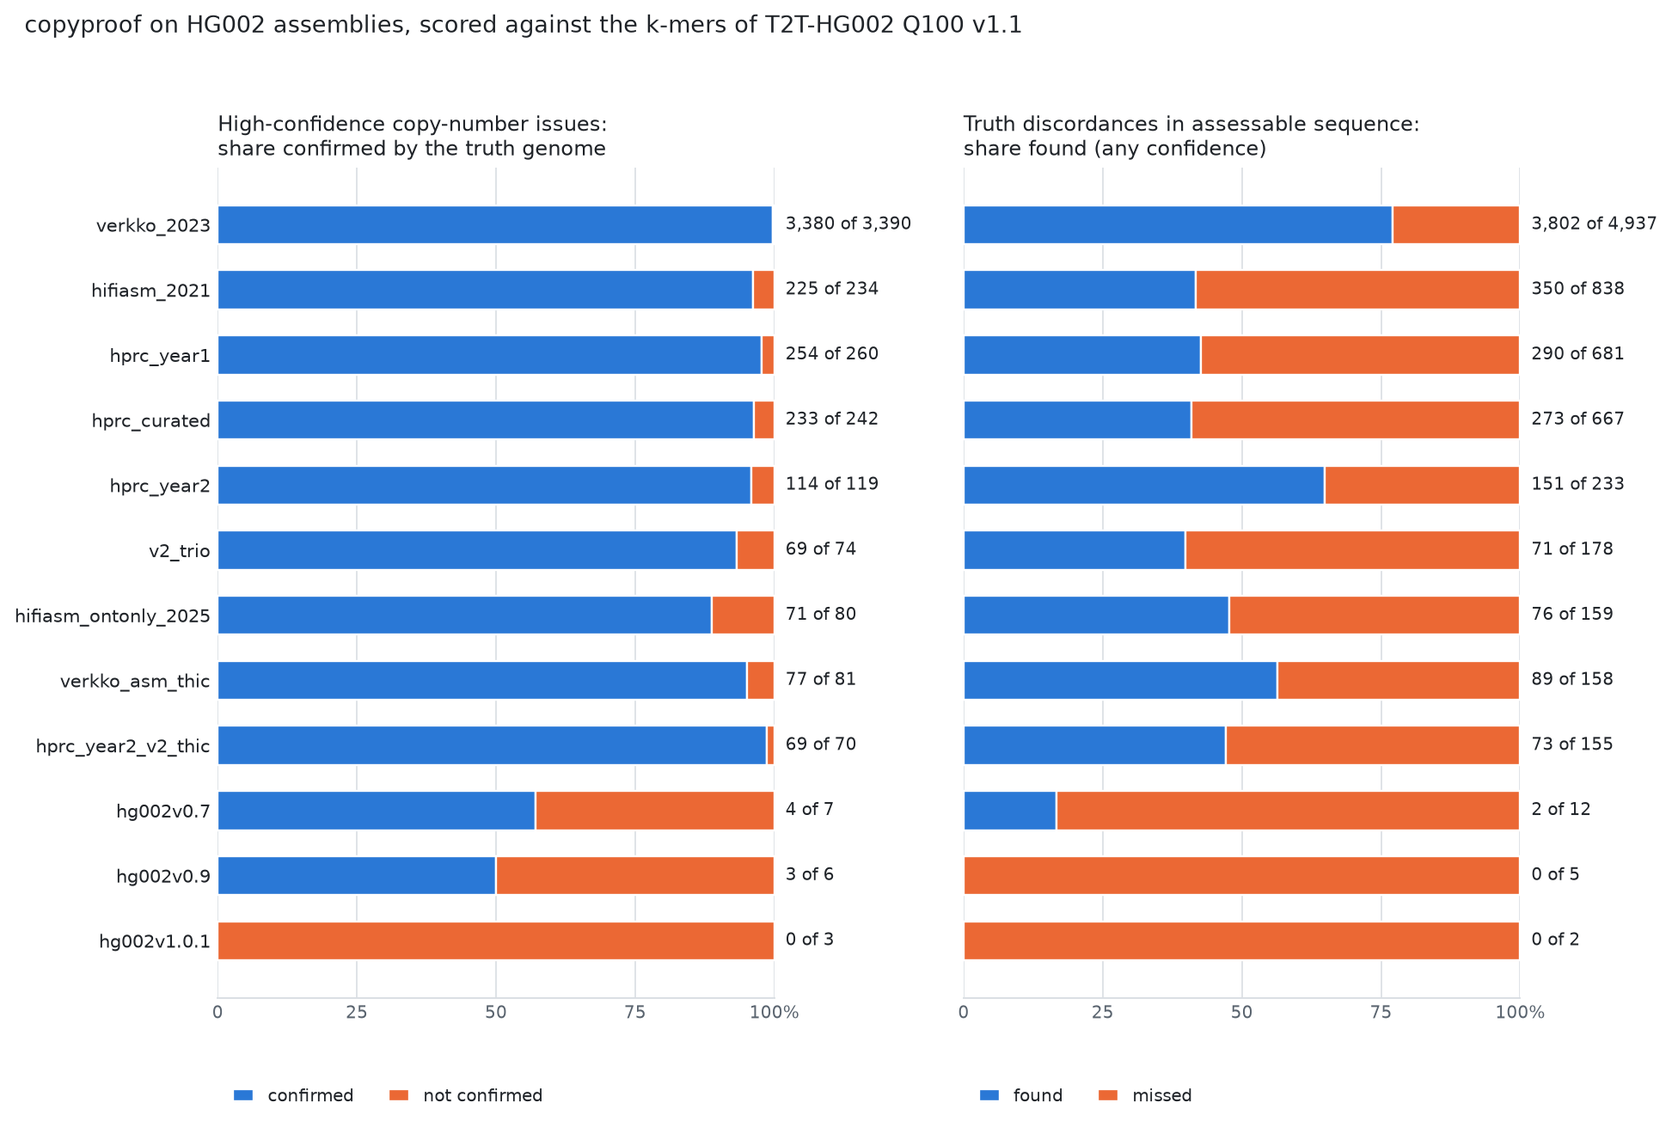
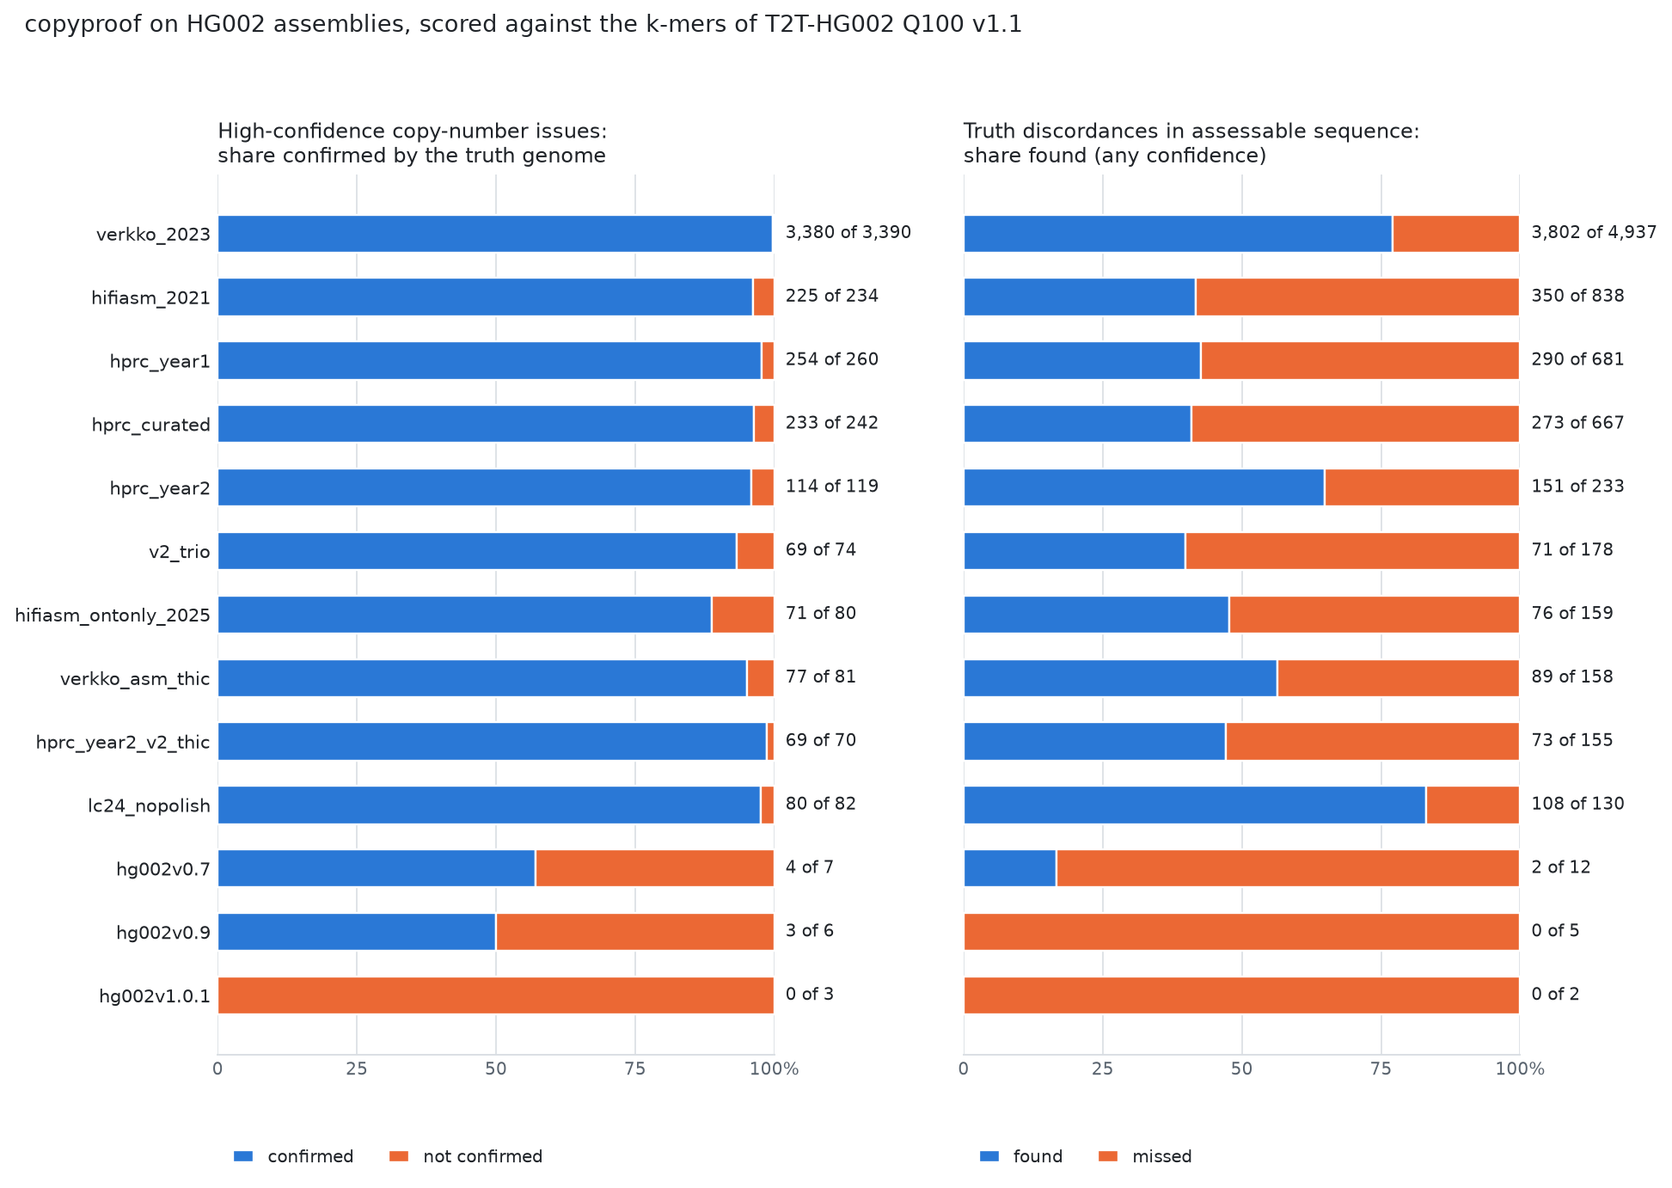
Rung 4: all thirteen downloaded assemblies scored
The last one (lc24_nopolish) finished: 4,579 of 4,648 high-confidence copy-number issues are
confirmed by the truth genome (1,199 of 1,258 without verkko_2023), with 1 to 10 unconfirmed
per assembly. Tables, figure, record, README and notebook entry o carry the final numbers; the
"not yet scored" section is gone.

diff --git a/copyproof/experiments/2026-11-13_hg002_assemblies/README.md b/copyproof/experiments/2026-11-13_hg002_assemblies/README.md
@@ -4,13 +4,14 @@
 the real discordances does it find, and what do short-read k-mers say about consensus quality
 (GUIDE §8 rung 4; decisions D4, D6)?
 
-**Inputs.** Twelve HG002 assemblies of different years, methods and data, three of them earlier
+**Inputs.** Thirteen HG002 assemblies of different years, methods and data, three of them earlier
 drafts of the truth genome itself (`assemblies.tsv`; all from the public Q100 benchmark folder);
 HG002's NovaSeq PCR-free reads (36x), counted once; the k-mers of T2T-HG002 Q100 v1.1, counted
 exactly. The read k-mer database built for rung 3 serves every assembly. Two of the assemblies
 (`verkko_2023`, `hprc_curated`) carry no haplotype in their sequence names and are run as one
-group. The benchmark folder lists one more name, `hifi_q28_trio_hic`; its file is the same as
-that of `verkko_asm_thic`, byte for byte, and it is counted once.
+group. These are all the assemblies that were downloaded. The list holds one more name,
+`hifi_q28_trio_hic`, whose file is the same as that of `verkko_asm_thic`, byte for byte; it is
+counted once.
 
 **Truth without alignment.** Each assembly is scanned with the truth genome's k-mer counts as an
 extra read set, so every tracked k-mer of the assembly carries the copies the truth holds
@@ -35,6 +36,7 @@ stretch of a collapsed copy is a true discordance too.
 | `hprc_curated` | HPRC curated HG002 (accession names; one group) | 6.02, 869 | 59.5 | 273 of 667 (41%) | 233 of 242 (96%) | 60 of 179 (34%) | 52.6 / 49.82 |
 | `hifiasm_2021` | hifiasm 0.12, HiFi only (2021) | 5.97, 1,030 | 53.4 | 350 of 838 (42%) | 225 of 234 (96%) | 85 of 135 (63%) | 50.8 / 48.43 |
 | `verkko_asm_thic` | Verkko, trio + Hi-C | 5.97, 90 | 23.6 | 89 of 158 (56%) | 77 of 81 (95%) | 5 of 52 (10%) | 55.8 / 50.07 |
+| `lc24_nopolish` | ONT-only (LC24), unpolished | 6.06, 891 | 20.6 | 108 of 130 (83%) | 80 of 82 (98%) | 21 of 69 (30%) | 47.0 / 45.23 |
 | `hifiasm_ontonly_2025` | hifiasm, ONT only (2025) | 5.98, 163 | 18.8 | 76 of 159 (48%) | 71 of 80 (89%) | 4 of 57 (7%) | 45.7 / 43.89 |
 | `hprc_year2_v2_thic` | HPRC year-2 v2, trio + Hi-C | 5.98, 209 | 17.9 | 73 of 155 (47%) | 69 of 70 (99%) | 10 of 45 (22%) | 52.7 / 48.79 |
 | `hprc_year2` | HPRC year-2 pipeline, hifiasm trio, polished | 5.98, 302 | 16.5 | 151 of 233 (65%) | 114 of 119 (96%) | 31 of 74 (42%) | 51.4 / 49.21 |
@@ -43,34 +45,34 @@ stretch of a collapsed copy is a true discordance too.
 | `hg002v0.9` | Q100 draft v0.9 | 6.00, 48 | 2.1 | 0 of 5 (0%) | 3 of 6 (50%) | 0 of 32 (0%) | 58.7 / 51.78 |
 | `hg002v1.0.1` | Q100 v1.0.1 | 6.00, 48 | 0.2 | 0 of 2 (0%) | 0 of 3 (0%) | 0 of 43 (0%) | 59.3 / 51.95 |
 
-Summed over the 12 assemblies, by size of the segment (`scoreboard.by_size.tsv`):
+Summed over the 13 assemblies, by size of the segment (`scoreboard.by_size.tsv`):
 
 | Direction | Size | Assessable discordances | Found | Issues | Confirmed | High-confidence issues | Confirmed |
 |---|---|---|---|---|---|---|---|
-| The truth holds more (collapse) | under 5 kb | 435 | 39 (9%) | 26 | 19 (73%) | 0 |  |
-|  | 5 to 20 kb | 534 | 130 (24%) | 153 | 139 (91%) | 138 | 127 (92%) |
-|  | 20 to 100 kb | 422 | 213 (50%) | 225 | 210 (93%) | 213 | 203 (95%) |
-|  | over 100 kb | 158 | 85 (54%) | 148 | 134 (91%) | 143 | 131 (92%) |
-| The truth holds fewer (surplus copy) | under 5 kb | 363 | 65 (18%) | 656 | 26 (4%) | 4 | 4 (100%) |
-|  | 5 to 20 kb | 3,505 | 2,771 (79%) | 2,544 | 2,517 (99%) | 2,132 | 2,120 (99%) |
-|  | 20 to 100 kb | 2,166 | 1,563 (72%) | 1,815 | 1,804 (99%) | 1,616 | 1,606 (99%) |
-|  | over 100 kb | 442 | 311 (70%) | 350 | 333 (95%) | 320 | 308 (96%) |
+| The truth holds more (collapse) | under 5 kb | 438 | 41 (9%) | 26 | 19 (73%) | 0 |  |
+|  | 5 to 20 kb | 537 | 133 (25%) | 155 | 141 (91%) | 140 | 129 (92%) |
+|  | 20 to 100 kb | 431 | 215 (50%) | 229 | 214 (93%) | 217 | 207 (95%) |
+|  | over 100 kb | 158 | 85 (54%) | 151 | 136 (90%) | 146 | 133 (91%) |
+| The truth holds fewer (surplus copy) | under 5 kb | 367 | 65 (18%) | 702 | 26 (4%) | 4 | 4 (100%) |
+|  | 5 to 20 kb | 3,515 | 2,778 (79%) | 2,555 | 2,527 (99%) | 2,135 | 2,123 (99%) |
+|  | 20 to 100 kb | 2,213 | 1,605 (73%) | 1,856 | 1,844 (99%) | 1,643 | 1,633 (99%) |
+|  | over 100 kb | 496 | 363 (73%) | 394 | 376 (95%) | 363 | 350 (96%) |
 
 ## What was learned
 
-1. **High-confidence copy-number issues are real, down to a floor of a few per genome.** 4,499 of
-   4,566 are confirmed (99%); without the one assembly that contributes most of them, 1,119 of
-   1,176 (95%). Among the nine assemblies with 20 such issues or more, 89% to 100% each. The
-   ones not confirmed number 1 to 10 per assembly (67 in all, `unconfirmed_high.tsv`) whether
+1. **High-confidence copy-number issues are real, down to a floor of a few per genome.** 4,579 of
+   4,648 are confirmed (99%); without the one assembly that contributes most of them, 1,199 of
+   1,258 (95%). Among the ten assemblies with 20 such issues or more, 89% to 100% each. The
+   ones not confirmed number 1 to 10 per assembly (69 in all, `unconfirmed_high.tsv`) whether
    the confirmed ones number 0 or 3,380, so a share says little about an assembly with few
    errors. The three drafts of the truth genome show that floor alone: 3 unconfirmed issues
    each, against 4, 3 and 0 confirmed. Two of the three are the same in every draft: a pair of
    calls 57 to 72 kb into chromosome 1 on both haplotypes, where the reads hold four more
    copies than the genome. The truth genome's own run makes the same two calls (rung 3). Of
-   the 67, 43 lie where the truth shows no discordance at all and 21 where it shows one over
+   the 69, 44 lie where the truth shows no discordance at all and 22 where it shows one over
    20% to just under 50% of the issue.
-2. **Surplus copies are found better than collapses.** For surplus copies of 5 kb and more, 70% to
-   79% of the assessable discordances are found. For collapses it is 24% to 54%. A surplus copy
+2. **Surplus copies are found better than collapses.** For surplus copies of 5 kb and more, 73% to
+   79% of the assessable discordances are found. For collapses it is 25% to 54%. A surplus copy
    of sequence the assembly holds three times lowers the depth of its k-mers by a third; a
    collapse among six copies raises it by a sixth, which is the size of the regional wander of
    depth. Most missed collapses are of that kind: in duplicated sequence where the assembly holds
@@ -101,22 +103,22 @@ Summed over the 12 assemblies, by size of the segment (`scoreboard.by_size.tsv`)
    the truth genome itself: 1 to 3 kb where one haplotype's own k-mers have no short reads. Long
    reads showed that the sequence is real in 10 of those 13 (rung 3). Such calls are now of low
    confidence, and dropped when long reads carry the k-mers.
-6. **Depth anomalies are rightly left out.** The twelve runs hold 32,740 segments that fit a depth
-   factor or nothing regular. The truth confirms 1,302 (4%); without `verkko_2023`, 440 of 29,305
-   (2%). Ambiguous segments without support: 1,337, of which 171 confirmed (13%).
+6. **Depth anomalies are rightly left out.** The thirteen runs hold 35,372 segments that fit a
+   depth factor or nothing regular. The truth confirms 1,310 (4%); without `verkko_2023`, 448 of
+   31,937 (1%). Ambiguous segments without support: 1,465, of which 179 confirmed (12%).
 7. **One release holds 150 Mb more than a diploid genome.** `verkko_2023` (3,258 sequences) has
    149.6 Mb of sequence discordant with the truth, nearly all surplus copies; copyproof raises
    3,390 high-confidence issues there and 3,380 are confirmed. The other ordinary assemblies carry
    16 to 60 Mb of discordant sequence, the three drafts 2.2, 2.1 and 0.2 Mb.
 8. **Short-read k-mers understate consensus quality, by a floor.** The QV implied by assembly
    k-mers without any read is 2 to 7 units below the QV by the truth's k-mers, and the gap grows
-   with quality: 1.1 to 2.8 units in the seven assemblies below QV 52.7, 3.9 to 5.7 in the three
+   with quality: 1.1 to 2.8 units in the eight assemblies below QV 52.7, 3.9 to 5.7 in the three
    up to QV 57, and 6.9 and 7.3 in the two latest drafts. By read k-mers the three drafts reach
    51.2, 51.8 and 52.0 while the truth's k-mers give them 56.9, 58.7 and 59.3: 2.4 units between
    the drafts shrink to 0.8. The reason is the share of unread k-mers that are in fact correct
-   sequence. In the two weakest assemblies most unread k-mers are errors (`verkko_2023` 90%
-   wrong by the truth, `hifiasm_ontonly_2025` 86%); in the seven ordinary ones 40% to 62%; in
-   the drafts 24%, 13% and 9%. The reads find 32% to 92% of the k-mers that are wrong by the
+   sequence. In the three weakest assemblies most unread k-mers are errors (`verkko_2023` 90%
+   wrong by the truth, `hifiasm_ontonly_2025` 86%, `lc24_nopolish` 82%); in the seven ordinary
+   ones 40% to 62%; in the drafts 24%, 13% and 9%. The reads find 32% to 92% of the k-mers that are wrong by the
    truth.
 9. **Missing alleles are real; one-sided missing sequence mostly is not.** For `hprc_year2` the
    missing-sequence channel was run with the reads (`hprc_year2.missing_clusters.tsv`). A cluster
@@ -129,13 +131,6 @@ Summed over the 12 assemblies, by size of the segment (`scoreboard.by_size.tsv`)
    copy-number segments, the depth anomalies, the regions that cannot be assessed, the fitted
    model and the scored issues are identical file for file. It is the only repeat with
    unchanged code that was compared.
-
-## Not yet scored
-
-`lc24_nopolish` (ONT only, unpolished) is in `assemblies.tsv` and not in the tables: its run had
-not finished when this record was written. `scripts/run_hg002_assemblies.sh` runs whatever is
-not done, and `scripts/scoreboard.py` rebuilds the tables and every sum quoted above
-(`scoreboard.md`).
 
 ## Files
 

diff --git a/copyproof/experiments/2026-11-13_hg002_assemblies/scoreboard.md b/copyproof/experiments/2026-11-13_hg002_assemblies/scoreboard.md
@@ -5,6 +5,7 @@
 | `hprc_curated` | HPRC curated HG002 (accession names; one group) | 6.02, 869 | 59.5 | 273 of 667 (41%) | 233 of 242 (96%) | 60 of 179 (34%) | 52.6 / 49.82 |
 | `hifiasm_2021` | hifiasm 0.12, HiFi only (2021) | 5.97, 1,030 | 53.4 | 350 of 838 (42%) | 225 of 234 (96%) | 85 of 135 (63%) | 50.8 / 48.43 |
 | `verkko_asm_thic` | Verkko, trio + Hi-C | 5.97, 90 | 23.6 | 89 of 158 (56%) | 77 of 81 (95%) | 5 of 52 (10%) | 55.8 / 50.07 |
+| `lc24_nopolish` | ONT-only (LC24), unpolished | 6.06, 891 | 20.6 | 108 of 130 (83%) | 80 of 82 (98%) | 21 of 69 (30%) | 47.0 / 45.23 |
 | `hifiasm_ontonly_2025` | hifiasm, ONT only (2025) | 5.98, 163 | 18.8 | 76 of 159 (48%) | 71 of 80 (89%) | 4 of 57 (7%) | 45.7 / 43.89 |
 | `hprc_year2_v2_thic` | HPRC year-2 v2, trio + Hi-C | 5.98, 209 | 17.9 | 73 of 155 (47%) | 69 of 70 (99%) | 10 of 45 (22%) | 52.7 / 48.79 |
 | `hprc_year2` | HPRC year-2 pipeline, hifiasm trio, polished | 5.98, 302 | 16.5 | 151 of 233 (65%) | 114 of 119 (96%) | 31 of 74 (42%) | 51.4 / 49.21 |
@@ -13,29 +14,29 @@
 | `hg002v0.9` | Q100 draft v0.9 | 6.00, 48 | 2.1 | 0 of 5 (0%) | 3 of 6 (50%) | 0 of 32 (0%) | 58.7 / 51.78 |
 | `hg002v1.0.1` | Q100 v1.0.1 | 6.00, 48 | 0.2 | 0 of 2 (0%) | 0 of 3 (0%) | 0 of 43 (0%) | 59.3 / 51.95 |
 
-Summed over the 12 assemblies, by size of the segment:
+Summed over the 13 assemblies, by size of the segment:
 
 | Direction | Size | Assessable discordances | Found | Issues | Confirmed | High-confidence issues | Confirmed |
 |---|---|---|---|---|---|---|---|
-| The truth holds more (collapse) | under 5 kb | 435 | 39 (9%) | 26 | 19 (73%) | 0 |  |
-|  | 5 to 20 kb | 534 | 130 (24%) | 153 | 139 (91%) | 138 | 127 (92%) |
-|  | 20 to 100 kb | 422 | 213 (50%) | 225 | 210 (93%) | 213 | 203 (95%) |
-|  | over 100 kb | 158 | 85 (54%) | 148 | 134 (91%) | 143 | 131 (92%) |
-| The truth holds fewer (surplus copy) | under 5 kb | 363 | 65 (18%) | 656 | 26 (4%) | 4 | 4 (100%) |
-|  | 5 to 20 kb | 3,505 | 2,771 (79%) | 2,544 | 2,517 (99%) | 2,132 | 2,120 (99%) |
-|  | 20 to 100 kb | 2,166 | 1,563 (72%) | 1,815 | 1,804 (99%) | 1,616 | 1,606 (99%) |
-|  | over 100 kb | 442 | 311 (70%) | 350 | 333 (95%) | 320 | 308 (96%) |
+| The truth holds more (collapse) | under 5 kb | 438 | 41 (9%) | 26 | 19 (73%) | 0 |  |
+|  | 5 to 20 kb | 537 | 133 (25%) | 155 | 141 (91%) | 140 | 129 (92%) |
+|  | 20 to 100 kb | 431 | 215 (50%) | 229 | 214 (93%) | 217 | 207 (95%) |
+|  | over 100 kb | 158 | 85 (54%) | 151 | 136 (90%) | 146 | 133 (91%) |
+| The truth holds fewer (surplus copy) | under 5 kb | 367 | 65 (18%) | 702 | 26 (4%) | 4 | 4 (100%) |
+|  | 5 to 20 kb | 3,515 | 2,778 (79%) | 2,555 | 2,527 (99%) | 2,135 | 2,123 (99%) |
+|  | 20 to 100 kb | 2,213 | 1,605 (73%) | 1,856 | 1,844 (99%) | 1,643 | 1,633 (99%) |
+|  | over 100 kb | 496 | 363 (73%) | 394 | 376 (95%) | 363 | 350 (96%) |
 
 Sums the record quotes:
 
-- High-confidence copy-number issues confirmed: 4,499 of 4,566 (99%); without `verkko_2023`, 1,119 of 1,176 (95%).
-- Per assembly, among the 9 with 20 such issues or more: 89 to 100% confirmed.
+- High-confidence copy-number issues confirmed: 4,579 of 4,648 (99%); without `verkko_2023`, 1,199 of 1,258 (95%).
+- Per assembly, among the 10 with 20 such issues or more: 89 to 100% confirmed.
 - The 3 with fewer than 20 (`hg002v0.7`, `hg002v0.9`, `hg002v1.0.1`): 7 of 16 (44%) confirmed.
-- High-confidence issues not confirmed, per assembly: 1 to 10 (67 in all), while the confirmed ones range from 0 to 3,380.
-- Found, of assessable discordances of 5 kb and more: surplus copies 70 to 79%, collapses 24 to 54% (the three size classes).
-- Under 5 kb: found 9% (collapses) and 18% (surplus copies); 26 of 656 (4%) surplus-copy issues confirmed.
-- Segments that fit a depth factor or nothing regular (not reported): 1,302 of 32,740 (4%) confirmed; without `verkko_2023`, 440 of 29,305 (2%).
-- Ambiguous segments without support (not reported): 171 of 1,337 (13%) confirmed.
+- High-confidence issues not confirmed, per assembly: 1 to 10 (69 in all), while the confirmed ones range from 0 to 3,380.
+- Found, of assessable discordances of 5 kb and more: surplus copies 73 to 79%, collapses 25 to 54% (the three size classes).
+- Under 5 kb: found 9% (collapses) and 18% (surplus copies); 26 of 702 (4%) surplus-copy issues confirmed.
+- Segments that fit a depth factor or nothing regular (not reported): 1,310 of 35,372 (4%) confirmed; without `verkko_2023`, 448 of 31,937 (1%).
+- Ambiguous segments without support (not reported): 179 of 1,465 (12%) confirmed.
 - Sequence discordant with the truth: 0.2 to 149.6 Mb.
 - QV by truth k-mers minus QV by read k-mers: 1.1 to 7.3; highest QV by read k-mers 51.95.
 - Unread assembly k-mers that are wrong by the truth: 9 to 90%; k-mers wrong by the truth that the reads find: 32 to 92%.

diff --git a/copyproof/NOTEBOOK.md b/copyproof/NOTEBOOK.md
@@ -59,23 +59,24 @@ Entries m, n and o were written within the hour of their experiments.
 The experiment folders are regenerated from the run directories by the scripts named in each, and are the
 reference where a number here and a number there differ.
 
-### 2026-11-13 (o): five more assemblies; the disk measured while a scan waited on it
+### 2026-11-13 (o): six more assemblies; the disk measured while a scan waited on it
 
 Question:  does rung 4 hold on more assemblies, among them drafts of the truth genome, where almost nothing is
            wrong? And, asked by the user a second time: is the disk slow now?
 Run:       `scripts/run_hg002_assemblies.sh` for `hg002v0.9`, `hg002v1.0.1`, `hprc_curated`, `verkko_asm_thic`,
-           `v2_trio` and `hifi_q28_trio_hic`, one at a time; `scripts/scoreboard.py`, which now also writes out
-           the sums the record quotes; `experiments/2026-11-13_hg002_assemblies/unconfirmed.py`. For the disk:
+           `v2_trio`, `hifi_q28_trio_hic` and `lc24_nopolish`, one at a time; `scripts/scoreboard.py`, which
+           now also writes out the sums the record quotes; `experiments/2026-11-13_hg002_assemblies/unconfirmed.py`. For the disk:
            cores used by the running `cpk scan`, growth of its track file and MB moved by the device, every
            5 s; a stack sample of the process; write tests of random data flushed with F_FULLFSYNC.
-Seen:      Assemblies, twelve now: 4,499 of 4,566 high-confidence copy-number issues confirmed (99%; 1,119 of
-           1,176 without `verkko_2023`). The unconfirmed ones are 1 to 10 per assembly whether the confirmed ones
+Seen:      Assemblies, thirteen now, which is every one that was downloaded: 4,579 of 4,648
+           high-confidence copy-number issues confirmed (99%; 1,199 of 1,258 without `verkko_2023`). Surplus
+           copies of 5 kb and more: 73% to 79% found. Collapses: 25% to 54%. Under 5 kb: 9% to 18%. The unconfirmed ones are 1 to 10 per assembly whether the confirmed ones
            are 0 or 3,380. The three drafts have 3 unconfirmed each beside 4, 3 and 0 confirmed; two of the three
            are the same in every draft: the pair of calls near the start of chromosome 1 that the truth genome's
            own run makes. QV by read k-mers saturates: 51.2, 51.8 and 52.0 for drafts that the truth's k-mers put
            at 56.9, 58.7 and 59.3. `hprc_curated`, which has accession names and no haplotype labels, scores
            like `hprc_year1`.
-           A thirteenth run, `hifi_q28_trio_hic`, gave the numbers of `verkko_asm_thic` to the last digit. The
+           One more run, `hifi_q28_trio_hic`, gave the numbers of `verkko_asm_thic` to the last digit. The
            two downloads are one file (same size, same MD5): the benchmark folder holds that assembly under
            two names. It is counted once, and it is an unplanned repeat: the two runs, 43 minutes apart, wrote
            identical issue lists, segments, depth anomalies, models and scores.
@@ -100,7 +101,7 @@ Seen:      Assemblies, twelve now: 4,499 of 4,566 high-confidence copy-number is
            write test shows none of this, and what the drive does during a stall was not established.
 Decision:  no change to the method. The costs in the README hold when the disk keeps up, and it now says that
            a scan ends by writing a 10- to 13-GB file in one stream. Entry m and D9 are corrected.
-Next:      one assembly is still to be scored (`lc24_nopolish`).
+Next:      none for rung 4 on this sample. Rung 5 is other samples.
 
 ### 2026-11-13 (n): a review pass over the day's claims
 
@@ -254,9 +255,9 @@ Seen:      With the classifier of entries h and i: high-confidence calls about 8
            planted genome 147 signals found (119 high), 13 of 656 issues unexplained.
 Decision:  D4 and D6 as in `docs/method.md` §3. Thresholds were changed on rungs 2 to 4 together, so none of
            these rungs is a held-out test any more; rung 6 (a second sample, frozen thresholds) is the open one.
-Next:      seven more assemblies are downloaded and listed; they wait for a disk that writes. (Five were run
+Next:      seven more assemblies are downloaded and listed; they wait for a disk that writes. (Six were run
            later the same evening, entry o; the numbers above are those of the first seven, and the scoreboard
-           in the experiment folder holds all that are scored.)
+           in the experiment folder holds all thirteen.)
 
 ### 2026-11-13 (i): rung 2, errors planted in the truth genome
 

diff --git a/copyproof/README.md b/copyproof/README.md
@@ -51,18 +51,18 @@ Measured on public data; each line links to the record with commands and tables.
 
 **Real assemblies of one person, scored by a truth genome**
 ([experiments/2026-11-13_hg002_assemblies](experiments/2026-11-13_hg002_assemblies/README.md)).
-Twelve HG002 assemblies, three of them earlier drafts of the truth genome, were run with HG002's
+Thirteen HG002 assemblies, three of them earlier drafts of the truth genome, were run with HG002's
 36x short reads and scored against the k-mers of T2T-HG002 Q100, without alignment.
 
-![Twelve HG002 assemblies scored against the truth genome](experiments/2026-11-13_hg002_assemblies/scoreboard.png)
+![Thirteen HG002 assemblies scored against the truth genome](experiments/2026-11-13_hg002_assemblies/scoreboard.png)
 
-- 4,499 of 4,566 high-confidence copy-number issues are confirmed by the truth genome (99%; 1,119
-  of 1,176 without the one assembly that holds 150 Mb of surplus sequence).
+- 4,579 of 4,648 high-confidence copy-number issues are confirmed by the truth genome (99%; 1,199
+  of 1,258 without the one assembly that holds 150 Mb of surplus sequence).
 - The ones not confirmed number 1 to 10 per assembly, whether the confirmed ones number 0 or
   3,380. The three drafts, which have almost no errors left, get 3 unconfirmed issues each
   beside 4, 3 and 0 confirmed.
-- Of the surplus copies of 5 kb and more that lie in assessable sequence, 70% to 79% are found; of
-  the collapsed copies, 24% to 54%; under 5 kb, 9% to 18%.
+- Of the surplus copies of 5 kb and more that lie in assessable sequence, 73% to 79% are found; of
+  the collapsed copies, 25% to 54%; under 5 kb, 9% to 18%.
 - Strong missing-allele calls are true 96% of the time; one-sided missing sequence is not
   (46% when strong), and is reported accordingly.
 

diff --git a/copyproof/experiments/README.md b/copyproof/experiments/README.md
@@ -74,5 +74,5 @@ Every number in `../README.md`, with the table it is read from and what writes t
   agrees with them (8 and 17 of 64) but leaves out two pipeline steps.
 - The first exploratory runs at half depth, which the notebook's entries d to f describe.
 - Anything at all without the downloads: about 220 GB of reads, assemblies and alignments
-  (`scripts/manifests/`). The k-mer databases (32 GB) and the run directories (276 GB as they
-  stand, nearly all of it positional tracks of 9 to 18 GB per run) are rebuilt from those.
+  (`scripts/manifests/`). The k-mer databases (32 GB) and the run directories (about 315 GB as
+  they stand, nearly all of it positional tracks of 9 to 18 GB per run) are rebuilt from those.
